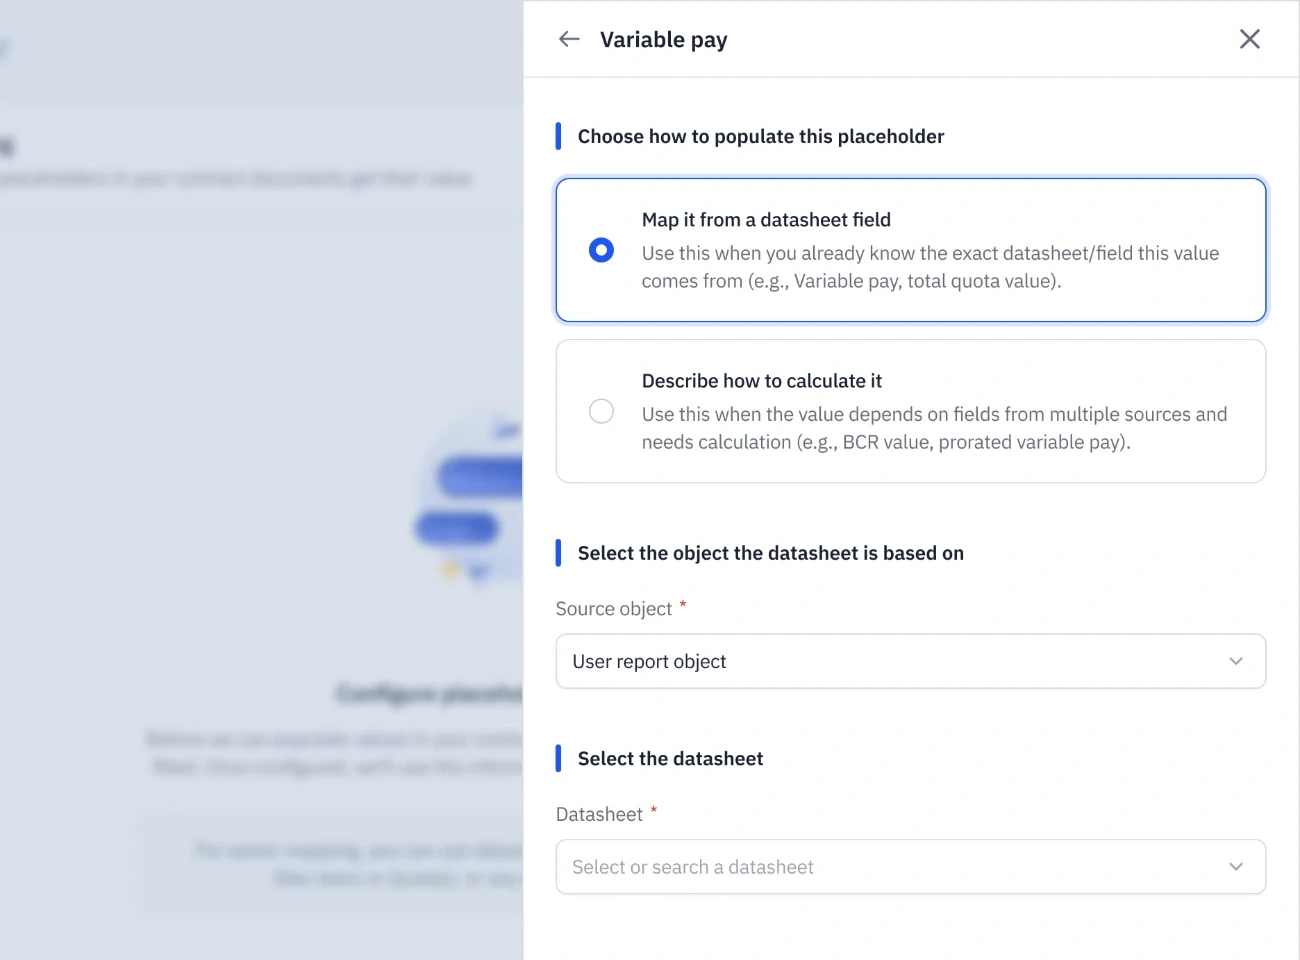
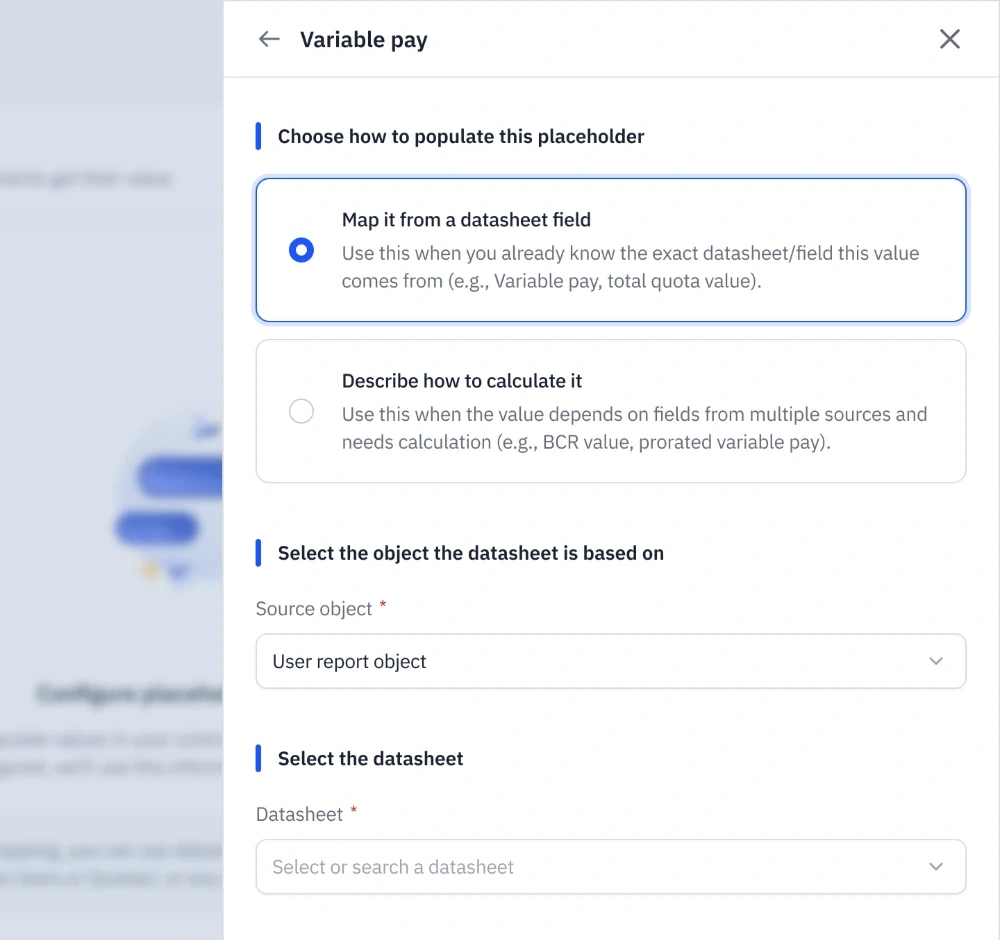
Contracts: show the full data mapping panel down to the Datasheet field
Claude-Session: https://claude.ai/code/session_01T9DhejLkAvT3djWqk8BUXi

diff --git a/v2/contracts/index.html b/v2/contracts/index.html
@@ -102,7 +102,7 @@
       <p>This made the setup complicated. We needed a simpler approach, and the AI capabilities being developed alongside the redesign opened up another possibility.</p>
     </div>
     <figure class="ss-frame wide right reveal">
-      <div class="ss-screen"><img src="../../assets/contracts/data-mapping.webp" width="1300" height="960" loading="lazy" alt="The manual data mapping panel for a Variable pay placeholder: choose between mapping it from a datasheet field or describing how to calculate it, then pick a source object and a datasheet."></div>
+      <div class="ss-screen"><img src="../../assets/contracts/data-mapping.webp?v=2" width="1000" height="940" loading="lazy" alt="The manual data mapping panel for a Variable pay placeholder: choose between mapping it from a datasheet field or describing how to calculate it, then pick a source object and a datasheet."></div>
     </figure>
   </section>
 

diff --git a/v2/case.css b/v2/case.css
@@ -589,3 +589,7 @@
 /* Right-anchored variant: the screen's right edge stays in view and it runs off the left */
 .blog .ss-frame.wide.right .ss-screen { left: auto; right: 32px; border-radius: 0 12px 0 0; }
 @media (max-width: 760px) { .blog .ss-frame.wide.right .ss-screen { right: 16px; width: 140%; } }
+/* Data mapping panel: show the whole panel height (down to the Datasheet field), anchored right, bleeding off the bottom edge only */
+.blog .ss-frame.wide.right { aspect-ratio: auto; padding: 32px 32px 0 0; }
+.blog .ss-frame.wide.right .ss-screen { position: relative; right: auto; top: auto; left: auto; width: 82%; margin-left: auto; border-radius: 0 12px 0 0; }
+@media (max-width: 760px) { .blog .ss-frame.wide.right { padding: 16px 16px 0 0; } .blog .ss-frame.wide.right .ss-screen { width: 92%; } }
